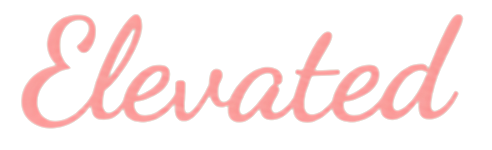
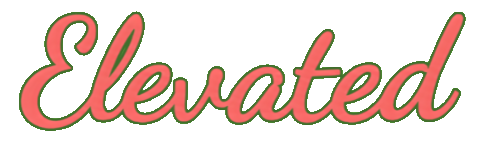
Fix elevated image transparency + mobile styling
- Properly removed green background using Python PIL
- Previous ffmpeg chromakey didn't work for images
- Added mobile-specific styles for .elevated-word-image
- Removed obsolete .elevated-word-video mobile styles
- Cache bump to v=2

Changed region(s): [[0.0305, 0.08, 0.9451, 0.88]]

diff --git a/index.html b/index.html
@@ -62,7 +62,7 @@
         <div class="hero-content">
             <h1 class="hero-title">
                 <span class="hero-title-main">Indulgence</span>
-                <img src="images/elevated-text-nobg.png?v=1" alt="Elevated" class="elevated-word-image" id="elevatedImage">
+                <img src="images/elevated-text-nobg.png?v=2" alt="Elevated" class="elevated-word-image" id="elevatedImage">
             </h1>
             <p class="hero-subtitle">Premium milkshakes reimagined with luxury ingredients and innovative twists</p>
         </div>

diff --git a/styles.css b/styles.css
@@ -1475,13 +1475,9 @@ section {
         font-size: 2.6rem;
     }
 
-    .elevated-word-video {
-        height: 25rem;
-        min-height: 20rem;
-    }
-
-    .elevated-video-wrap.visible {
-        max-height: 28rem;
+    .elevated-word-image {
+        height: 4rem;
+        max-width: 85vw;
     }
 
     .hero-buttons {
